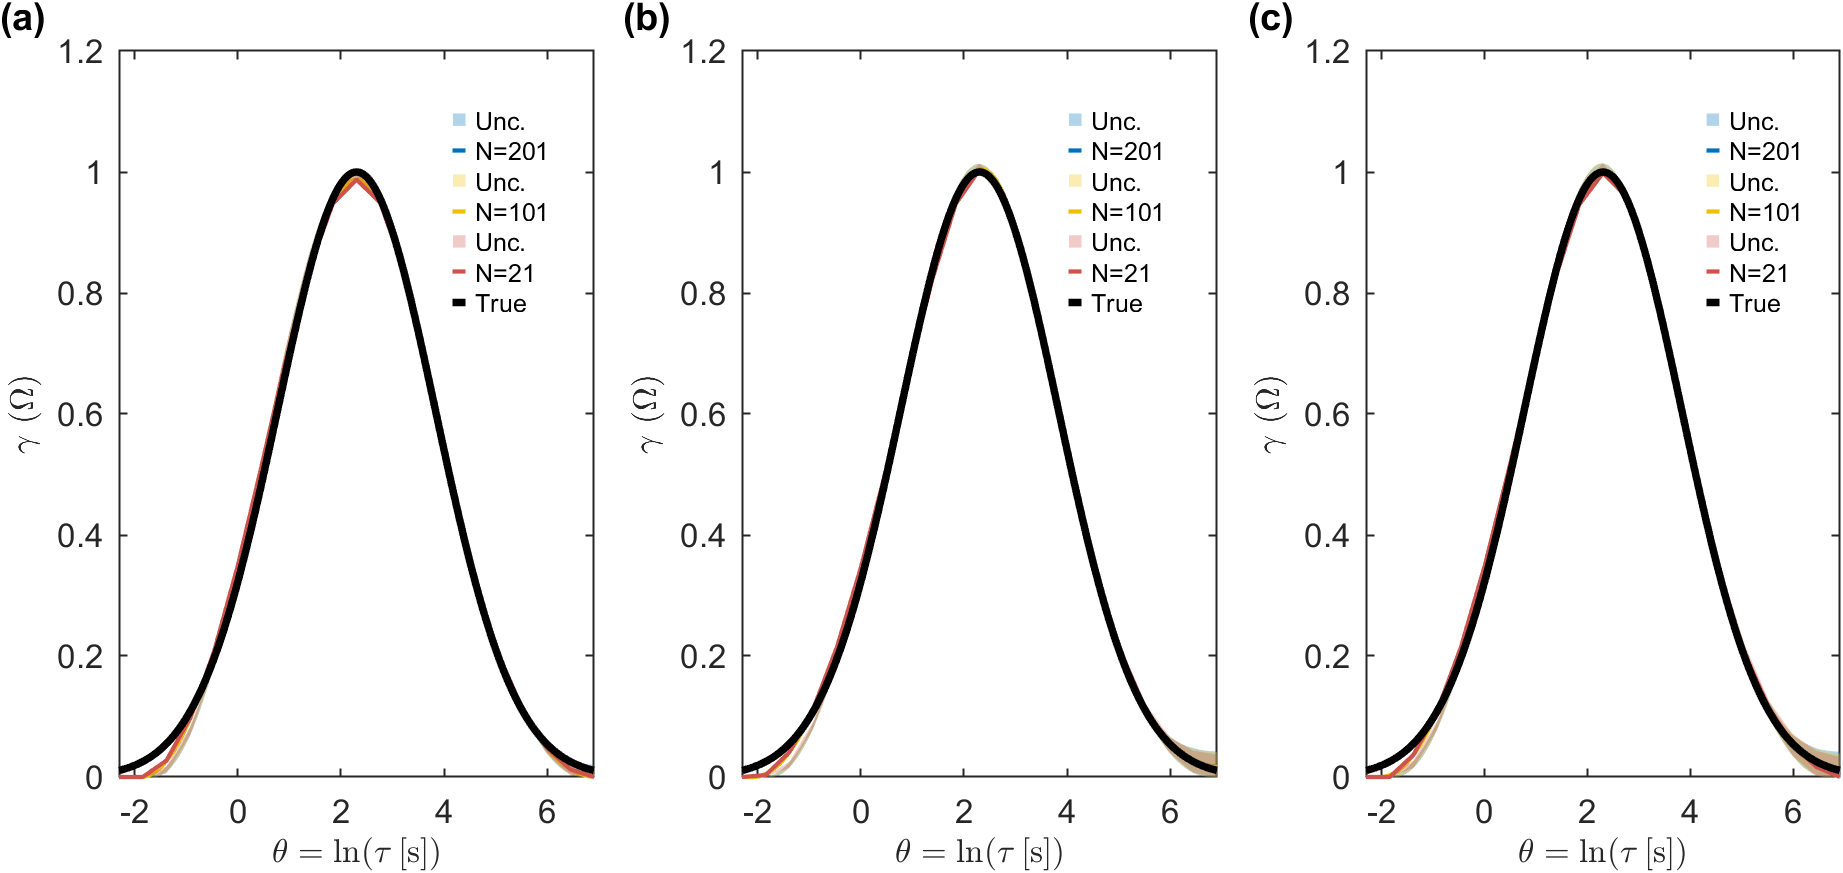
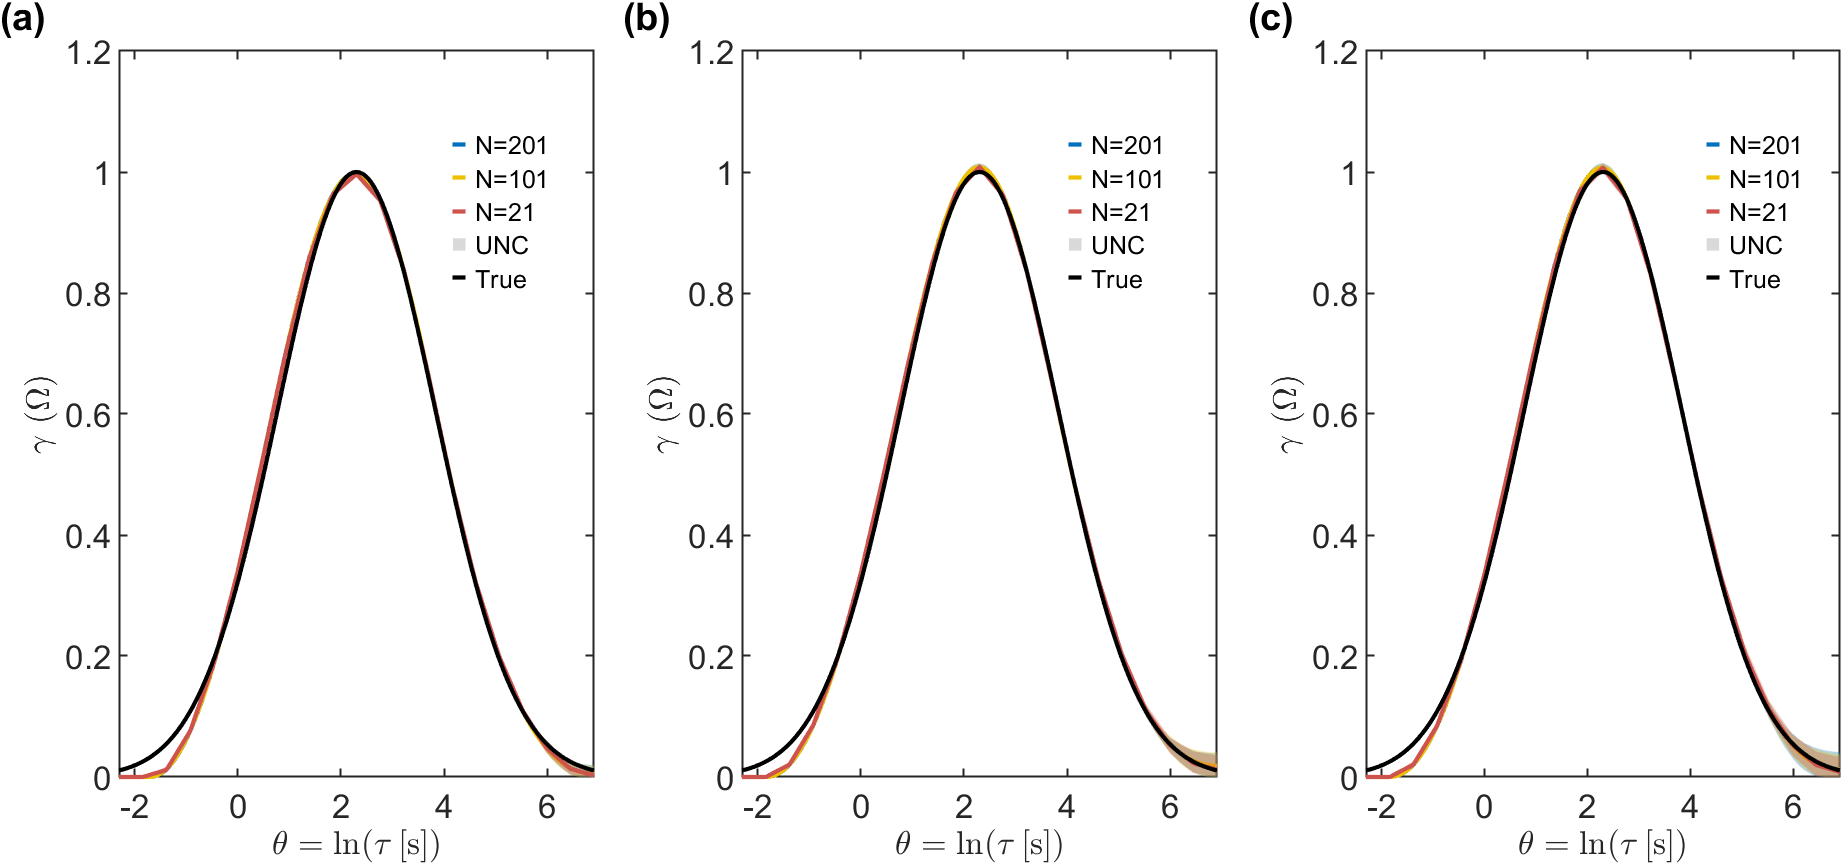
.
.

diff --git a/SD/Supplyfig1.m b/SD/Supplyfig1.m
@@ -2,7 +2,7 @@
 clc; clear; close all;
 
 % ----- 공통 스타일 파라미터 -----
-lineWidthValue     = 1;  % 선 굵기
+lineWidthValue     = 1;    % 선 굵기
 fillAlpha          = 0.3;  % 불확도 영역 투명도
 axisFontSize       = 8;    % x, y축 라벨 및 tick 폰트 크기
 legendFontSize     = 6;    % 범례 폰트 크기
@@ -10,7 +10,7 @@ annotationFontSize = 9;    % (a), (b), (c) 라벨 폰트 크기
 legendTokenSize    = 3;    % 범례 아이콘(박스/선) 길이
 
 % ----- Subplot Labels 및 위치 설정 -----
-subplotLabels = {'(a)','(b)','(c)'}; 
+subplotLabels = {'(a)','(b)','(c)'};
 labelPositions = [-0.25 1.05;
                   -0.25 1.05;
                   -0.25 1.05];
@@ -35,50 +35,94 @@ p_colors = [
     0.93725, 0.75294, 0.00000;  % Yellow
     0.80392, 0.32549, 0.29803;  % Red
     0.12549, 0.52157, 0.30588;  % Green
+    % 필요시 더 추가 가능
 ];
 
 %% (1) 효과 선택
 disp('1) Effect of dt  => compare group: A, D, E, F');
 disp('2) Effect of dur => compare group: A, G, H');
 disp('3) Effect of N   => compare group: A, B, C');
-effectChoice = input('Enter a number (1~3): ');
+disp('4) Effect of error => compare group: A(1%) vs. A(2%)');
+effectChoice = input('Enter a number (1~4): ');
+
+%% (2) 데이터 로드 및 그룹 설정
+dataFolder = 'G:\공유 드라이브\Battery Software Lab\Projects\DRT\SD_DRT\';
 
 switch effectChoice
     case 1
+        dataFile   = 'AS1_1per_new.mat';
+        load(fullfile(dataFolder, dataFile),'AS1_1per_new');
+        AS_data    = AS1_1per_new;  
         effectName   = 'dt';
         typeGroup    = {'A','D','E','F'};  
         legendLabels = {'dt=0.1','dt=0.2','dt=1','dt=2'};  
+
     case 2
+        dataFile   = 'AS1_1per_new.mat';
+        load(fullfile(dataFolder, dataFile),'AS1_1per_new');
+        AS_data    = AS1_1per_new;
         effectName   = 'dur';
         typeGroup    = {'A','G','H'};
         legendLabels = {'Dur=1000','Dur=500','Dur=250'};  
+
     case 3
+        dataFile   = 'AS1_1per_new.mat';
+        load(fullfile(dataFolder, dataFile),'AS1_1per_new');
+        AS_data    = AS1_1per_new;
         effectName   = 'N';
         typeGroup    = {'A','B','C'};
         legendLabels = {'N=201','N=101','N=21'};          
-    otherwise
-        error('Invalid choice. Please choose 1, 2, or 3.');
-end
 
-%% (2) 데이터 로드
-dataFolder = 'G:\공유 드라이브\Battery Software Lab\Projects\DRT\SD_DRT\';
-dataFile   = 'AS1_1per_new.mat'; 
-load(fullfile(dataFolder, dataFile),'AS1_1per_new');
-AS_data = AS1_1per_new;  % 이 안에 type, SN, theta, gamma_est, ... 등이 있다고 가정
+    case 4
+        % (A) 1% 에러 데이터 불러오기
+        dataFile_1per = 'AS1_1per_new.mat';
+        tmp1 = load(fullfile(dataFolder, dataFile_1per), 'AS1_1per_new');
+        AS_data_1per = tmp1.AS1_1per_new;
+
+        % (B) 2% 에러 데이터 불러오기
+        dataFile_2per = 'AS1_2per_new.mat';
+        tmp2 = load(fullfile(dataFolder, dataFile_2per), 'AS1_2per_new');
+        AS_data_2per = tmp2.AS1_2per_new;
+
+        % (C) 두 데이터에서 Type='A'만 골라서, type 이름을 'A_1per', 'A_2per' 로 수정
+        idxA_1per = strcmp({AS_data_1per.type}, 'A');
+        idxA_2per = strcmp({AS_data_2per.type}, 'A');
+
+        Adata_1per = AS_data_1per(idxA_1per);
+        Adata_2per = AS_data_2per(idxA_2per);
+
+        % type 이름 바꿔주기 (ex. 'A' -> 'A_1per' / 'A_2per')
+        for iA = 1:numel(Adata_1per)
+            Adata_1per(iA).type = 'A_1per';
+        end
+        for iA = 1:numel(Adata_2per)
+            Adata_2per(iA).type = 'A_2per';
+        end
+
+        % (D) 이제 하나의 구조체 배열로 합침
+        AS_data = [Adata_1per, Adata_2per];
+
+        % (E) 효과명, 그룹, 범례
+        effectName   = 'error';
+        typeGroup    = {'A_1per','A_2per'};
+        legendLabels = {'A(1% error)','A(2% error)'};
+
+    otherwise
+        error('Invalid choice. Please choose 1, 2, 3, or 4.');
+end
 
 %% (2-1) 참값(Gamma_unimodal.mat) 로드
 trueFile = 'Gamma_unimodal.mat';
-tmp = load(fullfile(dataFolder, trueFile));  
-% tmp.Gamma_unimodal 구조체 안에 theta, gamma가 있다고 가정
-theta_true = tmp.Gamma_unimodal.theta;  % 201×1 double
-gamma_true = tmp.Gamma_unimodal.gamma;  % 201×1 double
+tmp_true = load(fullfile(dataFolder, trueFile));  
+theta_true = tmp_true.Gamma_unimodal.theta;  
+gamma_true = tmp_true.Gamma_unimodal.gamma;  
 
 %% (3) 시나리오 리스트 (예: 1, 5, 10)
 scenarioList = [1, 5, 10];
 numScenarios = numel(scenarioList);
 
 %% (4) Figure 생성
-figure('Name',['Effect of ',effectName,' - ',dataFile], ...
+figure('Name',['Effect of ',effectName], ...
        'NumberTitle','off','Color','w', ...
        'Units','centimeters','Position',[2 2 figWidth figHeight]);
 
@@ -88,14 +132,13 @@ subplotHeight = 1 - topMargin - bottomMargin;
 %% (5) Subplot 순회하며 그래프
 for i = 1:numScenarios
     leftPos = leftMargin + (i-1)*(subplotWidth + midGap);
-
     ax = subplot('Position',[leftPos, bottomMargin, subplotWidth, subplotHeight]);
     hold(ax,'on');
     ax.FontSize = axisFontSize;
-
+    
     scenarioNum = scenarioList(i);
-
-    % (5-1) 해당 시나리오 + 선택된 type에 해당하는 데이터만 필터
+    
+    % (5-1) 해당 시나리오 및 선택된 타입 데이터 필터링
     matchIdx = false(size(AS_data));
     for k = 1:numel(AS_data)
         if ismember(AS_data(k).type, typeGroup) && (AS_data(k).SN == scenarioNum)
@@ -103,48 +146,62 @@ for i = 1:numScenarios
         end
     end
     selData = AS_data(matchIdx);
-
-    % (5-2) 타입별 추정치 및 불확도(불확실성) 구간을 각각 플롯
+    
+    % 이미 legend에 추가된 타입 체크 (한 타입당 한 번만 DisplayName 표시)
+    addedType = false(1, numel(typeGroup));
+    
+    % (5-2) 타입별 추정치 및 불확도 영역 플롯
     for d = 1:numel(selData)
         tname       = selData(d).type;
-        cidx        = find(strcmp(typeGroup, tname));  % 색깔 인덱스
+        % cidx 찾기
+        cidx        = find(strcmp(typeGroup, tname));  % 색상 인덱스
         theta_est   = selData(d).theta;
-        gamma_est   = selData(d).gamma_est;
+        gamma_avg   = selData(d).gamma_avg;
         gamma_lower = selData(d).gamma_lower;
         gamma_upper = selData(d).gamma_upper;
-
-        % ── (A) 불확도 영역 (Uncertainty)
+        
+        % 불확도 영역 fill
         fill([theta_est; flipud(theta_est)], ...
              [gamma_lower; flipud(gamma_upper)], ...
              p_colors(cidx,:), ...
              'FaceAlpha', fillAlpha, ...
              'EdgeColor','none', ...
-             'DisplayName','Unc.');  % 범례에 "Unc."로 표시
-
-        % ── (B) 추정 곡선
-        plot(theta_est, gamma_est, ...
-             'LineWidth', lineWidthValue, ...
-             'Color', p_colors(cidx,:), ...
-             'DisplayName', legendLabels{cidx});
+             'HandleVisibility','off');
+        
+        % 추정 곡선은 Legend에 표시 (같은 타입은 한 번만)
+        if ~addedType(cidx)
+            plot(theta_est, gamma_avg, ...
+                 'LineWidth', lineWidthValue, ...
+                 'Color', p_colors(cidx,:), ...
+                 'DisplayName', legendLabels{cidx});
+            addedType(cidx) = true;
+        else
+            plot(theta_est, gamma_avg, ...
+                 'LineWidth', lineWidthValue, ...
+                 'Color', p_colors(cidx,:), ...
+                 'HandleVisibility','off');
+        end
     end
+    
+    % 'UNC' (불확도 영역) 더미 박스 추가 (모든 경우 공통)
+    fill(NaN, NaN, [0.5 0.5 0.5], ...
+         'FaceAlpha', fillAlpha, ...
+         'EdgeColor','none', ...
+         'DisplayName', 'UNC');
 
-    % (5-3) 참값 곡선 (Gamma_unimodal) 플롯
-    plot(theta_true, gamma_true, ...
-         'k-', 'LineWidth', 1.8, ...
-         'DisplayName', 'True'); 
+    % (5-3) 참값 곡선 (True Curve) 플롯
+    plot(theta_true, gamma_true, 'k-', 'LineWidth', 1, 'DisplayName', 'True'); 
 
-    % (5-4) 축 레이블
+    % (5-4) 축 레이블 설정
     xlabel('$\theta = \ln(\tau\,[\mathrm{s}])$','Interpreter','latex','FontSize',axisFontSize);
     ylabel('$\gamma~(\Omega)$','Interpreter','latex','FontSize',axisFontSize);
     box(ax,'on');
 
-    % (5-5) 서브플롯 (a), (b), (c) 라벨
+    % (5-5) 서브플롯 라벨 (a), (b), (c)
     text(ax, labelPositions(i,1), labelPositions(i,2), subplotLabels{i}, ...
-        'Units','normalized', ...
-        'FontSize', annotationFontSize, ...
-        'FontWeight','bold');
+         'Units','normalized','FontSize', annotationFontSize,'FontWeight','bold');
 
-    % (5-6) 범례
+    % (5-6) 범례 생성 및 위치 설정
     hLeg = legend('Location','none','Box','off','FontSize',legendFontSize);
     set(hLeg, 'ItemTokenSize', [legendTokenSize, legendTokenSize]); 
     switch i
@@ -157,6 +214,6 @@ for i = 1:numScenarios
     end
 end
 
-%% (Optional) 그래프 파일로 저장
-exportgraphics(gcf, ['Compare_',effectName,'_',dataFile,'.png'],'Resolution',300);
+%% (Optional) 그래프 파일로 저장 (파일 이름에 effectName 반영)
+exportgraphics(gcf, ['Compare_',effectName,'.png'],'Resolution',300);
 
